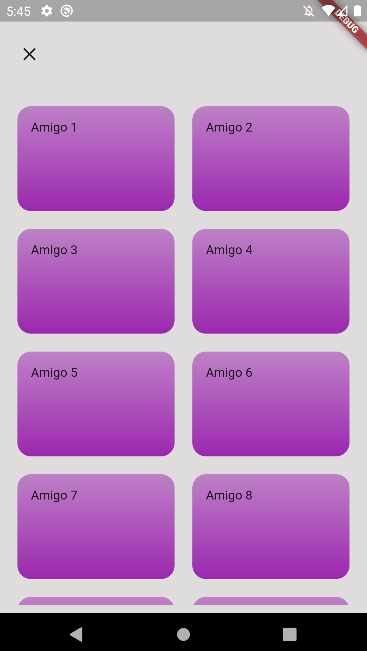
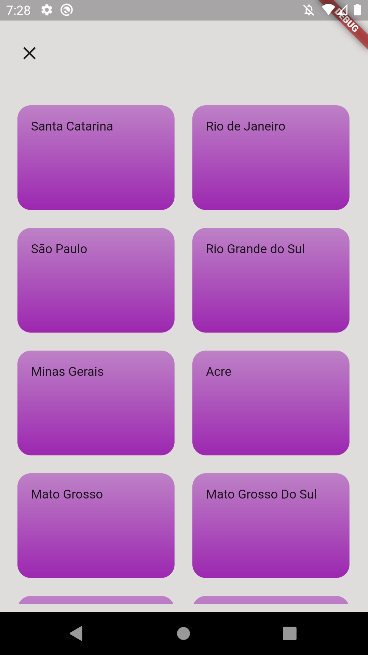
Friends List Created
Now show the friends in each state

diff --git a/lib/body/screens/appbar/addfriends.dart b/lib/body/screens/appbar/addfriends.dart
@@ -13,62 +13,122 @@ class Category {
   });
 }
 
-//Criação do que tem nas categorias
+//Dados das cidades
 const templateCategories = [
   Category(
-    id: 'a1',
-    title: 'Amigo 1',
+    id: 'SC',
+    title: 'Santa Catarina',
     color: Colors.purple,
   ),
   Category(
-    id: 'a2',
-    title: 'Amigo 2',
+    id: 'RJ',
+    title: 'Rio de Janeiro',
     color: Colors.purple,
   ),
   Category(
-    id: 'a3',
-    title: 'Amigo 3',
+    id: 'SP',
+    title: 'São Paulo',
     color: Colors.purple,
   ),
   Category(
-    id: 'a4',
-    title: 'Amigo 4',
+    id: 'RS',
+    title: 'Rio Grande do Sul',
     color: Colors.purple,
   ),
   Category(
-    id: 'a5',
-    title: 'Amigo 5',
+    id: 'MG',
+    title: 'Minas Gerais',
     color: Colors.purple,
   ),
   Category(
-    id: 'a6',
-    title: 'Amigo 6',
+    id: 'AC',
+    title: 'Acre',
     color: Colors.purple,
   ),
   Category(
-    id: 'a7',
-    title: 'Amigo 7',
+    id: 'MT',
+    title: 'Mato Grosso',
     color: Colors.purple,
   ),
   Category(
-    id: 'a8',
-    title: 'Amigo 8',
+    id: 'MS',
+    title: 'Mato Grosso Do Sul',
     color: Colors.purple,
   ),
   Category(
-    id: 'a9',
-    title: 'Amigo 9',
+    id: 'ES',
+    title: 'Espirito Santo',
     color: Colors.purple,
   ),
   Category(
-    id: 'a10',
-    title: 'Amigo 10',
+    id: 'BA',
+    title: 'Bahia',
     color: Colors.purple,
+  ),
+];
+
+//Criação dos amigos
+class Friends {
+  final String id;
+  final String name;
+  final int age;
+  final String description;
+  final String city;
+  final String imageUrl;
+
+  const Friends({
+    required this.id,
+    required this.name,
+    required this.age,
+    required this.description,
+    required this.city,
+    required this.imageUrl,
+  });
+}
+
+//Dados dos amigos
+const templateFriends = [
+  Friends(
+    id: 'SC',
+    name: 'BoboDev',
+    age: 20,
+    description: 'O homem mais chad do mundo',
+    city: 'Joinvas',
+    imageUrl:
+        'https://scontent.fbnu5-1.fna.fbcdn.net/v/t39.30808-6/131515347_361757075484186_7279731453872224817_n.jpg?_nc_cat=101&ccb=1-7&_nc_sid=174925&_nc_eui2=AeF6wiwLznuNvxJSCdmojWvqKMBT8G0pyIQowFPwbSnIhB9aLaAeRP6VSZDN0MUwzox386_94rAQt6EgkFb4baYy&_nc_ohc=QI-7AagWg2wAX-HNTpl&_nc_zt=23&_nc_ht=scontent.fbnu5-1.fna&oh=00_AT_GUf3Qni8XGWXGcb2E707gCfMAgWhxymHbOJyDbl_QsA&oe=63092E62',
+  ),
+  Friends(
+    id: 'RS',
+    name: 'YollaraDev',
+    age: 20,
+    description: 'A mais linda de todas',
+    city: 'Não lembro',
+    imageUrl:
+        'https://scontent.fbnu5-1.fna.fbcdn.net/v/t39.30808-6/275388413_507922184291127_7164133995144990640_n.jpg?_nc_cat=100&ccb=1-7&_nc_sid=09cbfe&_nc_eui2=AeGnSFiKyeruXgJ7ZTLUxje9BjIJb2FbELkGMglvYVsQua06PCg3sWP0IYtGlmEBy3jfZ3iJNJAAOuxaKBYVCapL&_nc_ohc=jtrrZECF4HYAX-YOZ6t&tn=eLbTe2I-Uef0dWo2&_nc_zt=23&_nc_ht=scontent.fbnu5-1.fna&oh=00_AT_KxKFvR3vvondN_jqVp87esKUgq_R1VwMHbP9AftBAUw&oe=630A0472',
+  ),
+  Friends(
+    id: 'SC',
+    name: 'Vinicim',
+    age: 19,
+    description: 'O homem mais chad do mundo',
+    city: 'Joinvas',
+    imageUrl:
+        'https://www.girodoboi.com.br/wp-content/uploads/2022/07/texas_longhorn_08.07.2022.jpg',
+  ),
+  Friends(
+    id: 'MG',
+    name: 'Rochelem',
+    age: 20,
+    description: 'Trambiqueiro',
+    city: 'Cascaneias',
+    imageUrl: '',
   ),
 ];
 
 //Corpo do AddFriends
 class AddFriends extends StatelessWidget {
+  const AddFriends({Key? key}) : super(key: key);
+
   Widget build(BuildContext context) {
     double width = MediaQuery.of(context).size.width;
     double height =
@@ -101,7 +161,7 @@ class AddFriends extends StatelessWidget {
             height: height * 0.88,
             width: width * 0.9,
             child: GridView(
-              gridDelegate: SliverGridDelegateWithMaxCrossAxisExtent(
+              gridDelegate: const SliverGridDelegateWithMaxCrossAxisExtent(
                 maxCrossAxisExtent: 200,
                 childAspectRatio: 3 / 2,
                 crossAxisSpacing: 20,
@@ -121,27 +181,24 @@ class AddFriends extends StatelessWidget {
 //Construção da tabela
 class CategoryItem extends StatelessWidget {
   final Category category;
-
-  CategoryItem(this.category);
+  const CategoryItem(this.category, {Key? key}) : super(key: key);
 
   void _selectedCategory(BuildContext context) {
-    Navigator.of(context).push(
-      MaterialPageRoute(
-        builder: (_){
-          return CategoriesFriendsScreen(category);
-        },
-      ),
+    Navigator.of(context).pushNamed(
+      '/categories-friends',
+      arguments: category,
     );
   }
 
   @override
   Widget build(BuildContext context) {
+    //Construção da grade dos estados
     return InkWell(
       onTap: () => _selectedCategory(context),
-      splashColor: Color.fromARGB(255, 221, 160, 230),
+      splashColor: const Color.fromARGB(255, 221, 160, 230),
       borderRadius: BorderRadius.circular(15),
       child: Container(
-        padding: EdgeInsets.all(15),
+        padding: const EdgeInsets.all(15),
         child: Text(category.title),
         decoration: BoxDecoration(
           borderRadius: BorderRadius.circular(15),
@@ -159,17 +216,117 @@ class CategoryItem extends StatelessWidget {
   }
 }
 
-
-
+//Dentro dos estados
 class CategoriesFriendsScreen extends StatelessWidget {
-
-  final Category category;
-
-  CategoriesFriendsScreen(this.category);
+  CategoriesFriendsScreen({Key? key}) : super(key: key);
 
   @override
-  Widget build(BuildContext context){
+  Widget build(BuildContext context) {
+    final category = ModalRoute.of(context)?.settings.arguments as Category;
+
+    //Verificador se está no estado certo
+    final friends = templateFriends.where((friends) {
+      return friends.id.contains(category.id);
+    }).toList();
+
+    //Construção da lista de amigos do estado
     return Scaffold(
+      body: ListView.builder(
+        itemCount: friends.length,
+        itemBuilder: (context, index) {
+          return Tabel(friends[index]);
+        },
+      ),
+    );
+  }
+}
+
+//Criação das tabelas dos amigos
+class Tabel extends StatelessWidget {
+  final Friends friend;
+  const Tabel(this.friend, {Key? key}) : super(key: key);
+
+  void _selectFriend() {}
+
+  @override
+  Widget build(BuildContext context) {
+    return InkWell(
+      onTap: _selectFriend,
+      child: Card(
+        shape: RoundedRectangleBorder(
+          borderRadius: BorderRadius.circular(15),
+        ),
+        elevation: 4,
+        margin: const EdgeInsets.all(10),
+        child: Column(
+          children: [
+            Stack(
+              children: [
+                ClipRRect(
+                  borderRadius: BorderRadius.circular(15),
+                  child: Image.network(
+                    friend.imageUrl,
+                    height: 250,
+                    width: double.infinity,
+                    fit: BoxFit.fill,
+                  ),
+                ),
+                Positioned(
+                  right: 10,
+                  bottom: 20,
+                  child: Container(
+                    width: 300,
+                    color: Colors.black54,
+                    padding: const EdgeInsets.symmetric(
+                      horizontal: 20,
+                      vertical: 5,
+                    ),
+                    child: Text(
+                      friend.name,
+                      style: const TextStyle(
+                        fontSize: 26,
+                        color: Colors.white,
+                      ),
+                      softWrap: true,
+                      overflow: TextOverflow.fade,
+                    ),
+                  ),
+                ),
+              ],
+            ),
+            Padding(
+              padding: EdgeInsets.all(20),
+              child: Row(children: [
+                Row(
+                  children: [
+                    const Icon(
+                      Icons.more_time_rounded,
+                      size: 30,
+                    ),
+                    const SizedBox(width: 6),
+                    Text(
+                      '${friend.age} Anos',
+                      style: TextStyle(fontSize: 15),
+                    ),
+                    const SizedBox(
+                      width: 140,
+                    ),
+                    const Icon(
+                      Icons.location_city,
+                      size: 30,
+                    ),
+                    const SizedBox(width: 6),
+                    Text(
+                      friend.city,
+                      style: TextStyle(fontSize: 15),
+                    ),
+                  ],
+                )
+              ]),
+            )
+          ],
+        ),
+      ),
     );
   }
 }

diff --git a/lib/main.dart b/lib/main.dart
@@ -2,6 +2,7 @@ import 'package:flutter/material.dart';
 import 'body/screens/homepage/sideicons.dart';
 import 'body/screens/appbar/appbar.dart';
 import 'body/screens/homepage/cards.dart';
+import 'body/screens/appbar/addfriends.dart';
 
 //Inicialização
 void main() {
@@ -19,6 +20,11 @@ class NubankApp extends StatelessWidget {
         primarySwatch: Colors.purple,
       ),
       home: Home(),
+
+      //Criação de rotas para navegação
+      routes: {
+        '/categories-friends': (context) =>  CategoriesFriendsScreen(),
+      }
     );
   }
 }
